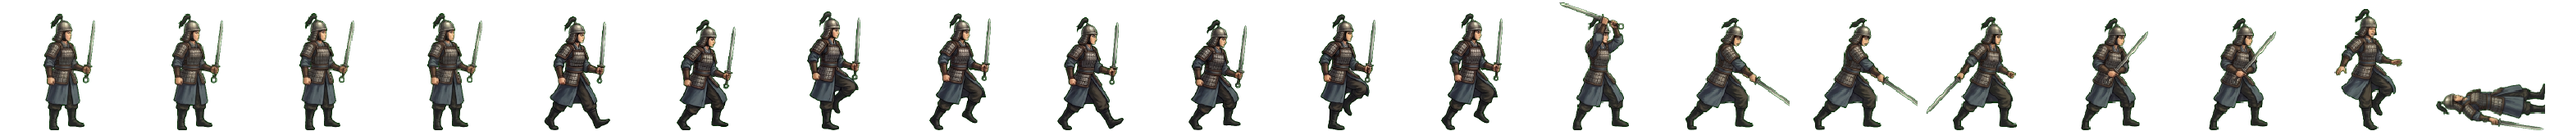
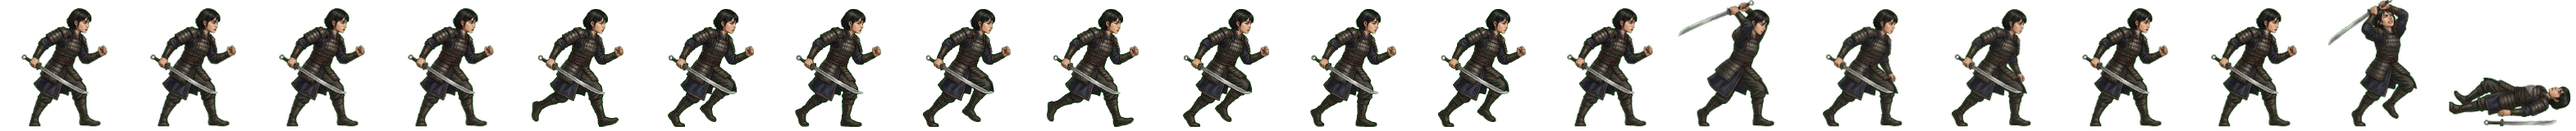
전투 띠 다시: 쇠비·아라를 초상대로 (투구·공통 갑옷을 벗기고 쇠비는 틀어 올린 머리·옥 비녀·어두운 여밈옷·붉은 띠 · 아라는 단발·검은 미늘 갑옷) · 타격점도 새 띠로 (형 11-08)
Claude-Session: https://claude.ai/code/session_01TRiuNAG8xSjdmjCFpc8Rd5

Changed region(s): [[0.0, 0.0, 1.0, 1.0]]

diff --git a/src/realm/data/art.ts b/src/realm/data/art.ts
@@ -490,8 +490,8 @@ export const GEN_ANIM: Readonly<Partial<Record<string, { ar: number; body: numbe
   hyeopbo: { ar: 163 / 160, body: 0.887 }, // 11-04 제 띠 (u/0 · 검은 머리띠 상투·가는 콧수염·무늬 검은 도포·가죽 갑옷 · 곧은 고리자루 칼 — 첫 판은 휜 칼이라 버림)
   malgalgi: { ar: 157 / 160, body: 0.948 }, // 11-05 밤 제 띠 (제미나이 u/0 자동 모드 · 겨자빛 저고리·가죽 조끼·방울 땋은머리·창 · 칸 선은 key-png 지울곳으로 · 걷기 여덟째는 넷째 · 쓰러짐은 C 장 · 휘두르기 초록 자국은 초록 지우기)
   haebi: { ar: 156 / 160, body: 0.941 }, // 11-05 밤 제 띠 (제미나이 edu Flash — Pro 붐벼서 · 남색 민소매·붉은 허리띠·큰 도끼 · 첫 판(u/0)은 납작한 벡터 그림체에 맨다리라 버림 · 막기 컷은 도끼가 둘이라 빼고 공격은 3·4·5 · 쓰러짐은 C 우하단 · ✦ 표식은 clean-alpha clone 으로 덮음)
-  soebi: { ar: 144 / 160, body: 0.934 }, // 11-05 밤 제 띠 (제미나이 edu Flash · 가야 세로 판갑·붉은 저고리·한쪽 쇠 견갑·덩이쇠 허리띠·큰 쇠망치 · A·B 는 칸 선 없이 · 쓰러짐 장의 칸 선은 장화 자리만 남기고 지움)
-  ara: { ar: 156 / 160, body: 0.887 }, // 11-05 밤 제 띠 (제미나이 edu Flash · 단발·쇠비늘 갑옷·곧은 고리자루 칼(날밑 없음) · C 는 B 를 다시 그리며 왼쪽 아래만 쓰러짐으로)
+  soebi: { ar: 156 / 160, body: 0.906 }, // 11-08 초상대로 다시 (형: 「투구 쓰고 원본과 다르다」 · 제미나이 걷기 4×2 + 동작 4×2 → 20컷 · assets_src/realm/gemini/generals2) · 쇠 덩이 묶음 대신 큰 쇠망치
+  ara: { ar: 157 / 160, body: 0.906 }, // 11-08 초상대로 다시 (형: 「투구 쓰고 원본과 다르다」 · 제미나이 걷기 4×2 + 동작 4×2 → 20컷 · assets_src/realm/gemini/generals2)
   heo: { ar: 150 / 160, body: 0.941 }, // 11-05 밤 제 띠 (제미나이 edu Flash · 진주·산호 꿴 물결머리·푸른·샛노란 비단 위 미늘·붉은 띠·긴 창 · B 의 서기가 걷는 자세라 C 에서 서기·맞음·쓰러짐 셋을 따로 받아 갈아 끼움 · 휘두르기 초록 자국 지움)
   gamsil: { ar: 156 / 160, body: 0.901 }, // 11-05 밤 제 띠 (제미나이 edu Flash · 주홍 무늬 겉옷·청동 거울·방울 지팡이 · 쓰러짐 장은 옷이 딴사람으로 나와 버리고 맞음 컷을 눕혀 씀(tools/laydown.ps1))
   sori: { ar: 280 / 160, body: 0.9375 }, // normal portrait, right-hand dagger, shared four-pose walk

diff --git a/src/ui/realm/battle-strikes.ts b/src/ui/realm/battle-strikes.ts
@@ -138,11 +138,11 @@ const CONTACT: Readonly<Record<string, [number, number, number]>> = {
   axe: [15, .89, .47], horse: [16, .98, .23], boat: [16, .88, .57],
   marine: [15, .99, .40], militia: [14, .98, .33],
   'gen-g-spear': [15, .99, .32], 'gen-g-sword': [16, .99, .33], 'gen-w-spear': [14, .98, .56],
-  'gen-mount': [15, .98, .22], 'gen-ara': [14, .87, .69], 'gen-aryeong': [14, .98, .48],
+  'gen-mount': [15, .98, .22], 'gen-ara': [14, 0.76, 0.94], 'gen-aryeong': [14, .98, .48],
   'gen-daeso': [14, .98, .43], 'gen-eureum': [14, .95, .13], 'gen-gamsil': [14, .92, .69],
   'gen-haebi': [15, .89, .69], 'gen-heo': [14, .97, .38], 'gen-hyeokgeose': [14, .97, .21],
   'gen-hyeopbo': [14, .93, .21], 'gen-malgalgi': [14, .97, .41], 'gen-mari': [14, .98, .47],
-  'gen-oi': [14, .98, .48], 'gen-onjo': [15, .98, .33], 'gen-soebi': [16, .90, .48],
+  'gen-oi': [14, .98, .48], 'gen-onjo': [15, .98, .33], 'gen-soebi': [14, 0.80, 0.95],
   'gen-soseono': [14, .98, .43],
   'gen-gaennae': [14, 249 / 264, 47 / 160],
   'gen-budeul': [14, 266 / 280, 51 / 160],
